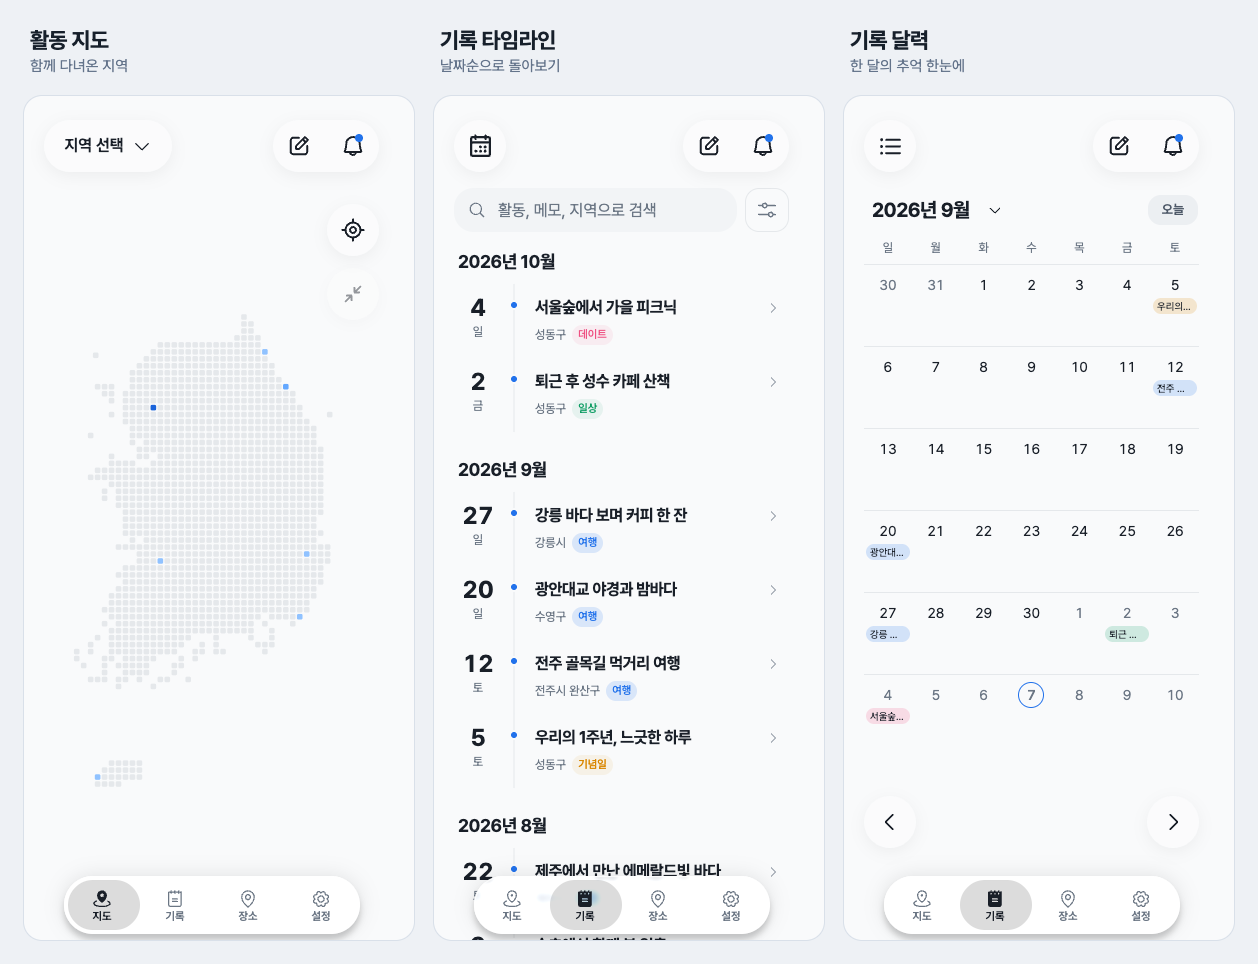
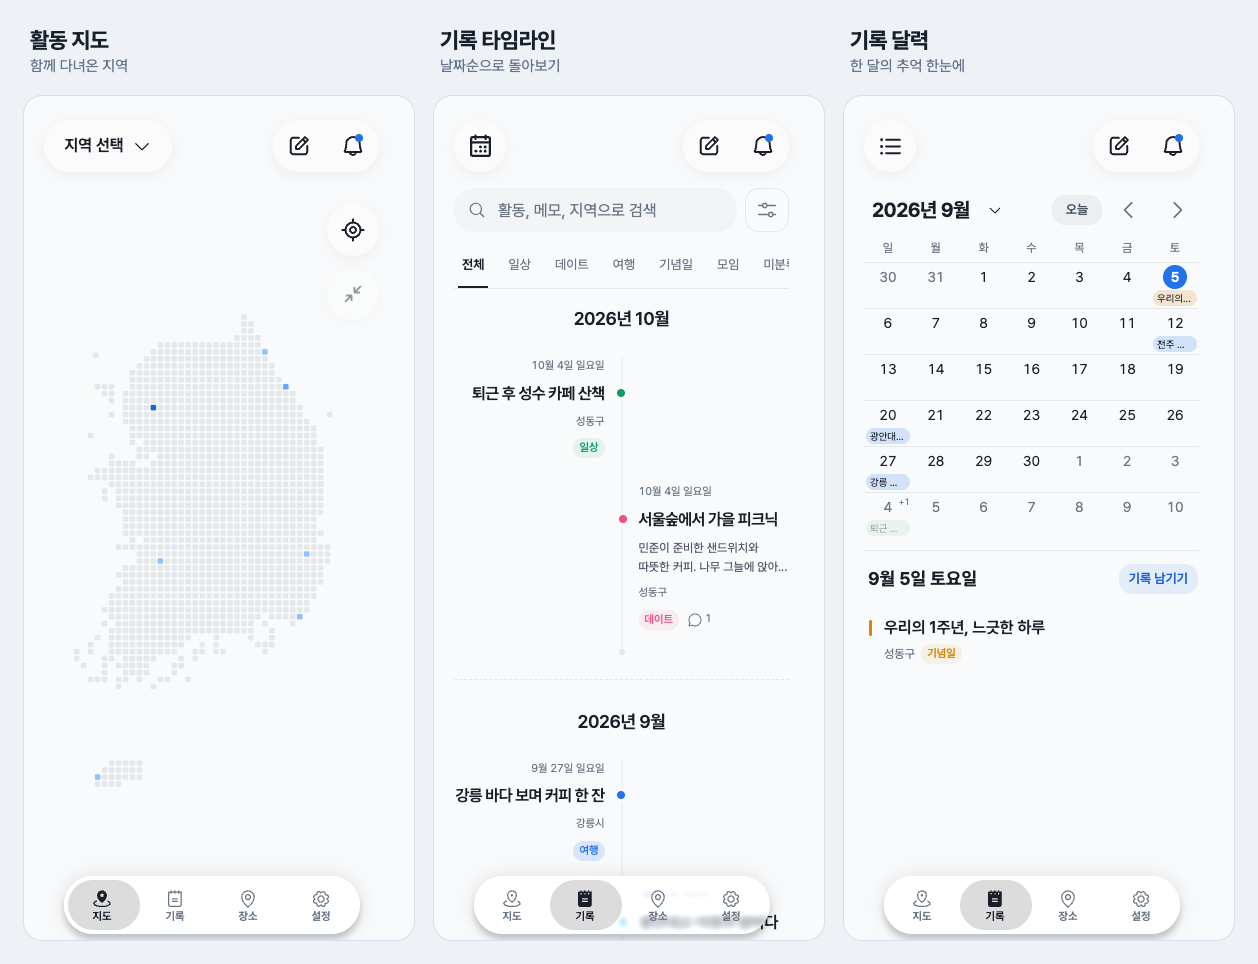
docs: README 기록 목록·달력 화면 교체와 쓰지 않는 이미지 정리 (#79)
* docs: README 기록 목록·달력 화면 캡처 교체

* chore: README에서 쓰지 않는 개별 화면 이미지 제거

diff --git a/README.md b/README.md
@@ -42,7 +42,7 @@
 
 대한민국 활동 지도에서 발자취를 보고 타임라인과 달력에서 함께한 날들을 다시 찾아봅니다.
 
-[![대한민국 활동 지도, 날짜순 기록 타임라인, 월별 달력을 이어 붙인 실제 화면](docs/images/overview-flow.png)](docs/images/overview-flow.png)
+[![대한민국 활동 지도, 날짜순 기록 타임라인, 월별 달력과 선택한 날의 기록 목록을 이어 붙인 실제 화면](docs/images/overview-flow.png)](docs/images/overview-flow.png)
 
 ### 기록 작성: 언제 → 어디서 → 무엇을
 
@@ -77,7 +77,7 @@
 
 - [회원가입 · 로그인 · 구성원 최초 설정](docs/images/auth-flow.png)
 - [지역 검색 시트 · 저장 장소 선택 시트 · 작성 중 나가기 확인](docs/images/record-picker-flow.png)
-- [기간·정렬 필터 시트 · 날짜별 기록 목록 시트 · 시트 안의 기록 상세](docs/images/record-browse-flow.png)
+- [기간·정렬 필터 시트 · 날짜별 기록 목록 · 시트 안의 기록 상세](docs/images/record-browse-flow.png)
 - [기록 관리 시트 · 기록 수정 화면 위·아래](docs/images/record-manage-flow.png)
 - [새 장소 검색·저장 · 장소 관리 시트 · 장소 삭제 확인](docs/images/place-manage-flow.png)
 - [다크 모드 설정 · 구성원별 알림 · 로그아웃 확인](docs/images/settings-flow.png)
